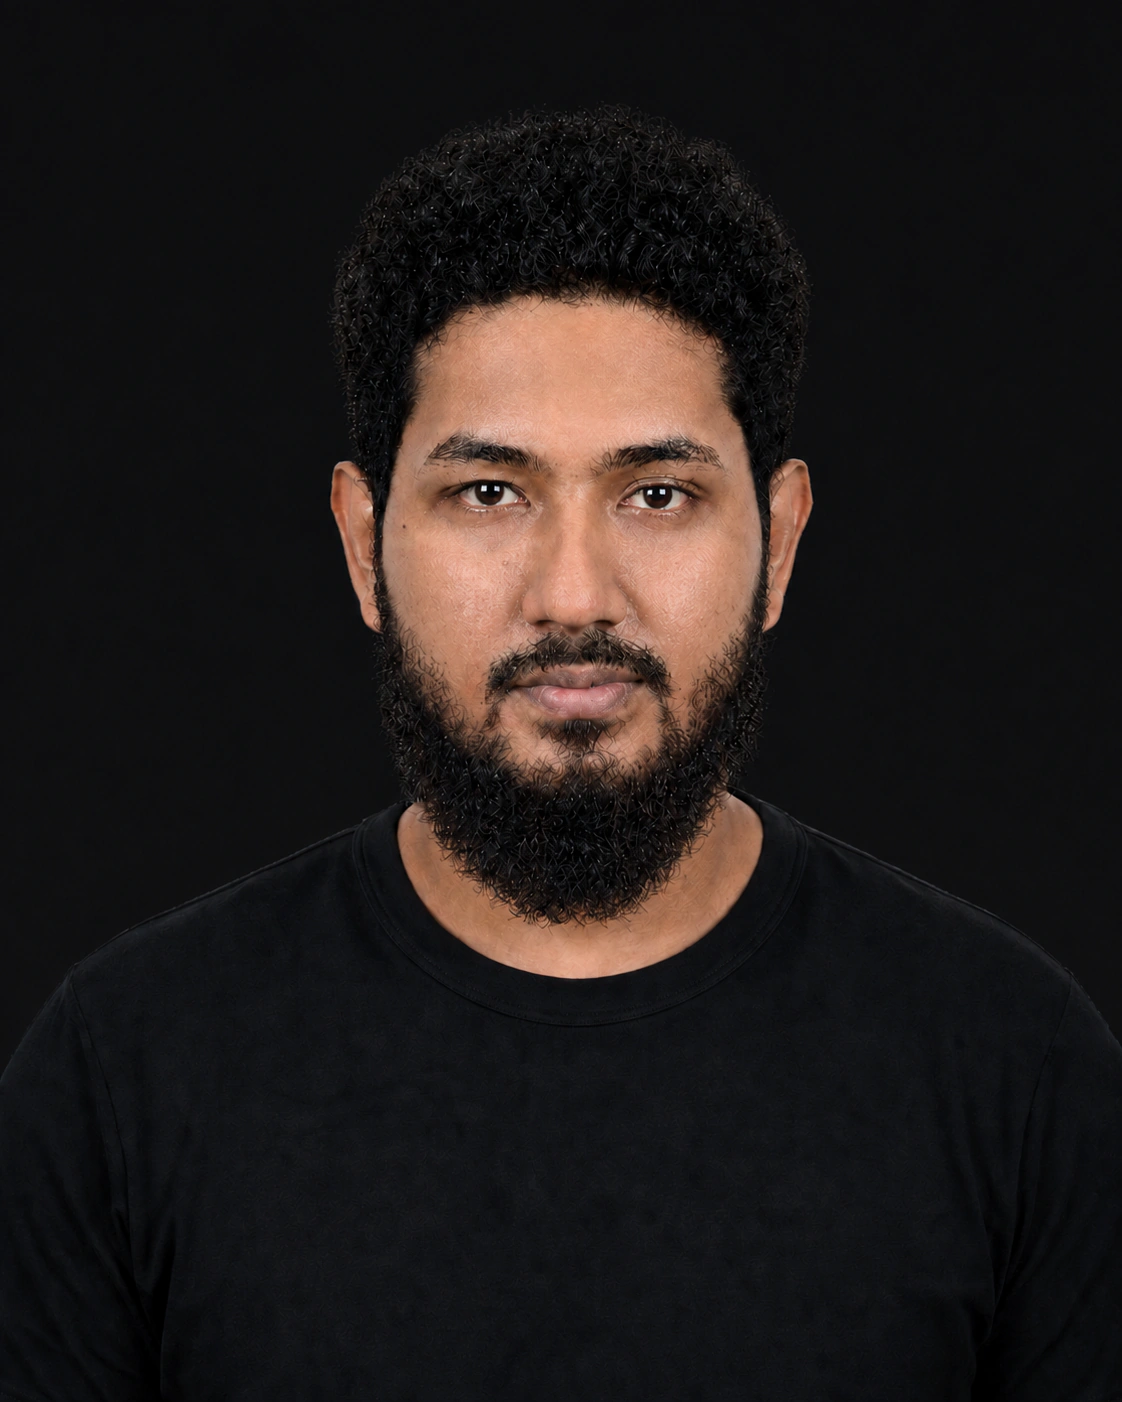
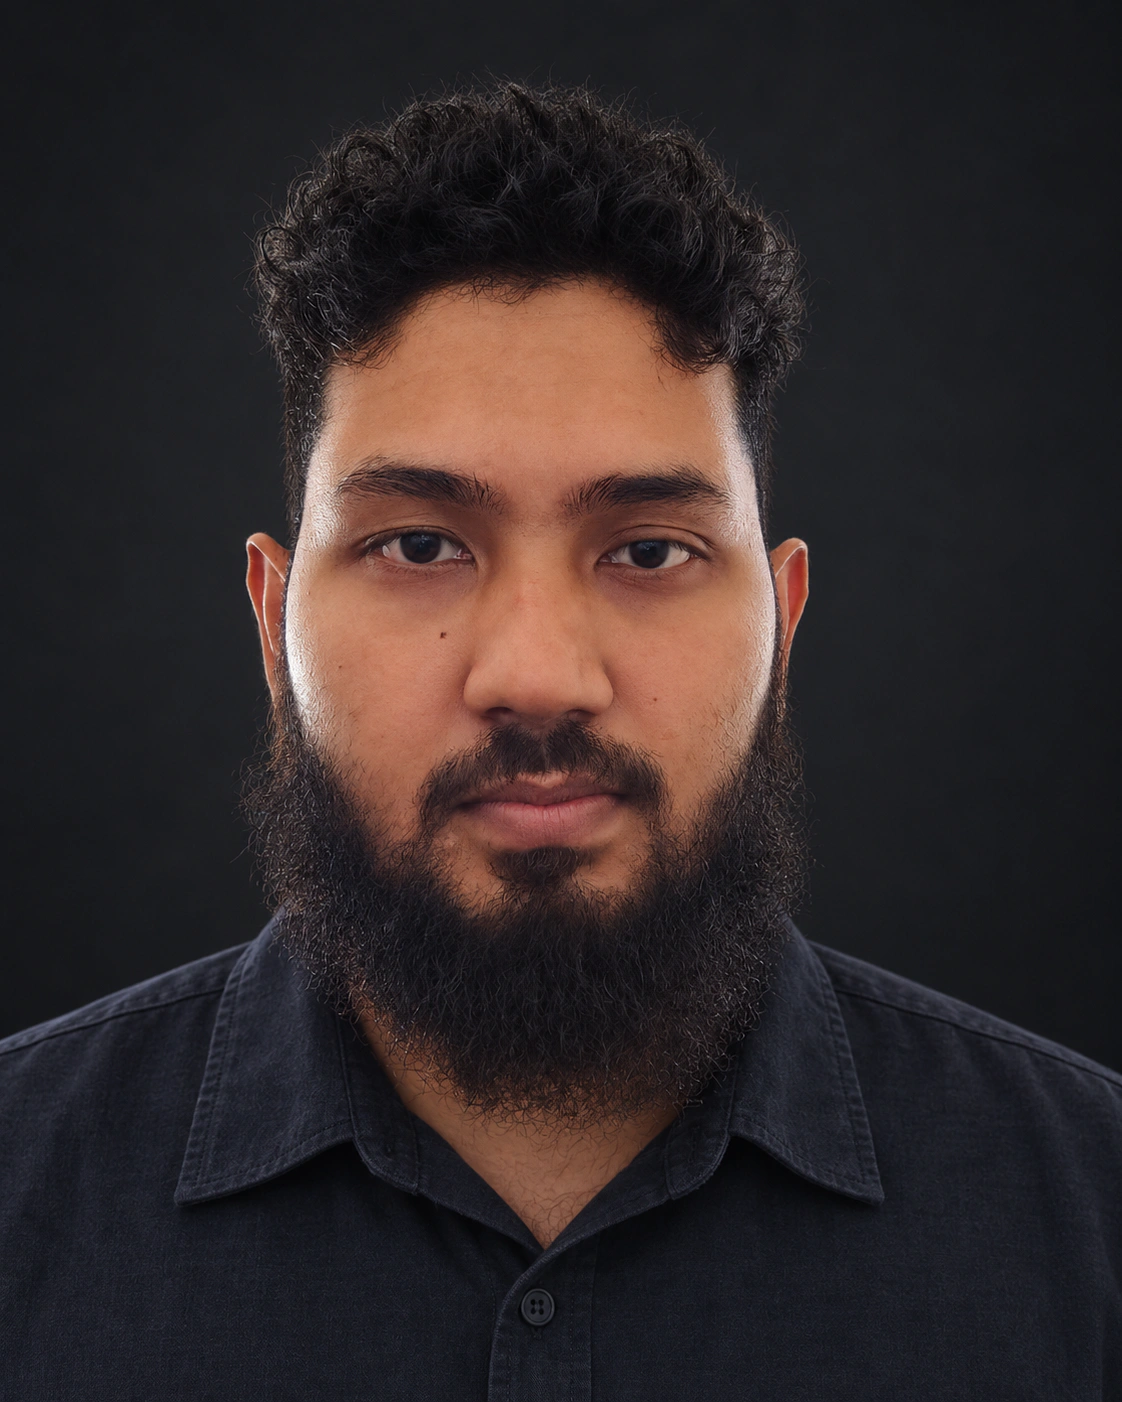
feat: replace portfolio portrait

diff --git a/README.md b/README.md
@@ -67,31 +67,21 @@ The downloadable CV is newly typeset from the supplied CV and verified public pr
 
 ## Portrait edit
 
-The original portrait was created with built-in ImageGen from the supplied photograph, preserving the subject's identity and replacing the blue shirt with a black crewneck.
+The current portrait was edited with built-in ImageGen on 8 September 2026 from the newly supplied `IMG_20260908_144033288_HDR.jpg`. The room background was replaced with a dark charcoal studio backdrop and the T-shirt with a dark collared overshirt. The edit prioritised the original facial features, hair, full beard and neutral expression; generated lighting and fine texture are not pixel-identical to the source.
 
-The current portrait was refined with built-in ImageGen on 7 September 2026 to clean the bright edge fringe and improve facial clarity. The PNG master is `assets/images/farhan-portrait.png`; the website uses `assets/images/farhan-portrait.webp` at its full native 1122 × 1402 resolution, encoded with WebP quality 95 and sharp YUV conversion. The requested 2048 × 2560 output was not returned by the tool; the image has not been artificially enlarged.
+The PNG master is `assets/images/farhan-portrait.png`; the website uses `assets/images/farhan-portrait.webp` at the returned native 1122 × 1402 resolution, encoded with WebP quality 95 and sharp YUV conversion. The image has not been enlarged.
 
-First repair prompt:
-
-```text
-Use case: identity-preserve.
-Asset type: high-resolution portrait for an existing dark developer portfolio.
-Input image 1: edit target and strict identity/composition reference.
-Primary request: repair the supplied portrait's image quality and edge contamination. Keep this exact person, face, age, expression, direct gaze, natural skin tone, facial proportions, distinctive eyes/nose/lips/ears, curly black hair, full beard and moustache, body pose and plain black crewneck unchanged. This is a restrained photographic retouch, not a new person or a makeover.
-Background: replace the existing gray glowing backdrop with a clean, uniform very dark charcoal #101113, matching the portfolio background. Remove the conspicuous white/silver cutout fringe around curls, ears, beard, neck and shoulders. Preserve genuine dark fine hairs and soft natural edge transitions. No white outline, rim lighting, backlight, gray haze, light spots or halo.
-Face quality: improve optical clarity of eyes, eyebrows, hair and beard while removing compression artifacts, coarse speckled noise and muddy facial detail. Use soft balanced frontal studio light and restrained natural contrast so the face looks clear and alive. Preserve realistic fine skin texture and the existing facial features. Avoid oversharpening, crunchy hair, grain, pixelation, blur, waxy skin, airbrushing, plastic skin or invented freckles.
-Composition: keep the input's centered eye-level 4:5 head-and-shoulders framing, scale and headroom; entire hair and both shoulders inside the frame, black shirt continuing to the lower edge. Produce a high-resolution 2048 x 2560 portrait if supported, with clean smooth tonal transitions and fine natural detail.
-No text, watermark, logo, props, additional people, recoloring of skin, beauty filter, facial reshaping or clothing changes.
-```
-
-Final texture refinement prompt:
+Final prompt:
 
 ```text
-Use case: identity-preserve.
-Input image: edit target, the same man's already edge-corrected portrait.
-Make one targeted photographic retouch: the face currently has excessive artificial squiggly, cracked, engraved microtexture on the forehead and cheeks, and the beard/hair look crunchy from oversharpening. Remove those sharpening and generation artifacts. Render skin as continuous natural photographic tones with faint, realistic pores, retaining original small facial details; use gentle noise reduction, not drawn/etched pores and not waxy airbrushing. Keep eyes naturally clear and in focus. Soften only excessive high-frequency facial texture and crunchy hair highlights, with clean realistic individual dark hair strands. Do NOT change face identity, face outline, proportions, expression, eyes, eyebrows, nose, lips, ears, beard shape, hairstyle, skin color, gaze, black crewneck, pose or framing.
-Preserve the corrected clean edges and uniform near-black charcoal backdrop matching #101113, without a white outline, gray halo, rim light, stray white flecks or light patches. Do not brighten the background.
-This must look like a clean high-quality real camera portrait, not an oil painting, etched illustration, beauty-filter face or oversharpened AI portrait. No new objects or text.
+Use case: identity-preserve
+Asset type: developer portfolio photographic portrait, 4:5 vertical
+Input images: Image 1 is the sole edit target and sole identity reference, the supplied original selfie.
+Primary request: Edit this exact photograph, preserving this exact person. Change only the room background to a seamless dark charcoal studio backdrop (approximately #101113 with very subtle tonal variation), and the T-shirt to a clean dark charcoal/navy collared overshirt. Tasteful, understated developer portfolio presentation.
+Composition/framing: Centered frontal head-and-shoulders portrait, 4:5 vertical. Preserve the same frontal head angle, gaze, neutral expression and body proportions. Include all natural hair with modest headroom and chest/shoulders visible.
+Lighting: Natural soft photographic lighting, preserving skin tone and realistic skin texture.
+Identity constraints: Preserve the exact face geometry, eyes, nose, lips, cheeks, forehead, eyebrows, ears, skin marks and texture. Preserve the natural voluminous hair and long full beard exactly in shape and character. Keep the face unchanged; do not reconstruct or reinterpret it. No beautification, face slimming, age change, skin smoothing, beard trimming or hair restyling.
+Avoid: harsh rim lighting, painterly textures, illustrated or synthetic appearance, exaggerated retouching, accessories, props, logos, text, watermark.
 ```
 
 ## Asset licenses
